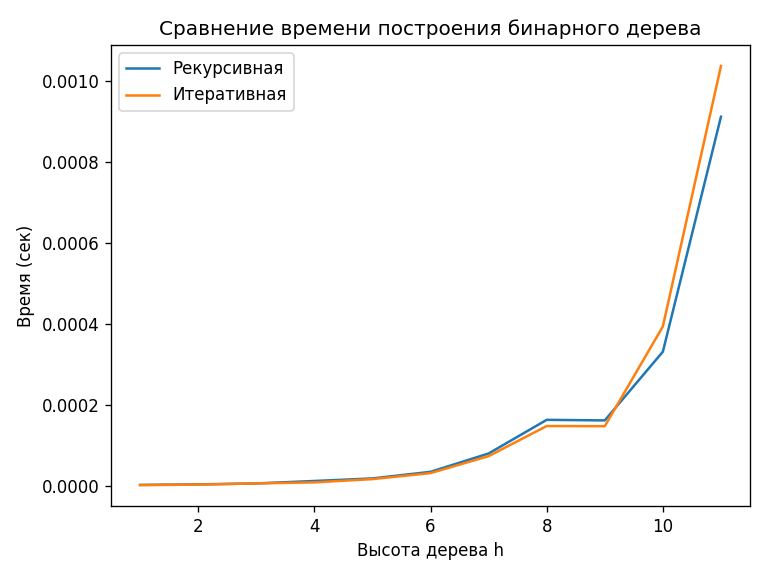
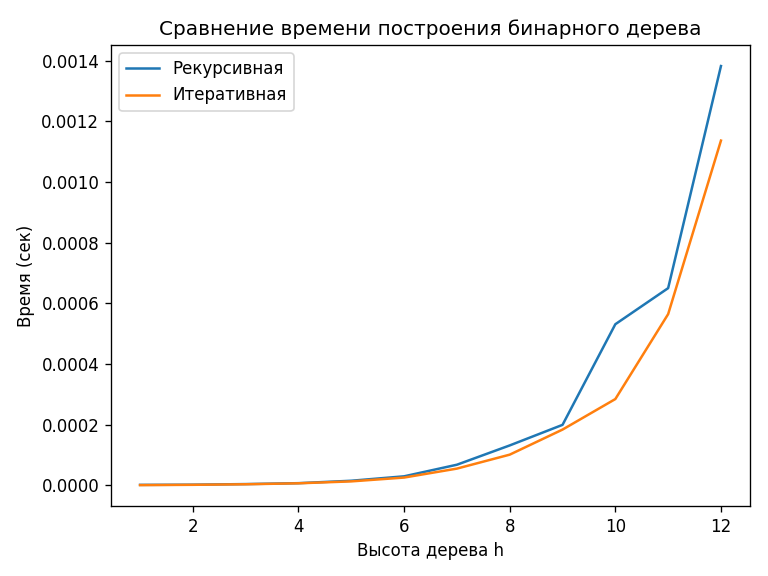
final

diff --git a/LR6/README.md b/LR6/README.md
@@ -5,6 +5,7 @@
 
 ## Навигация
 - Код и бенчмарк: [main.py](./main.py)
+- График: [график.png](./график.png)
 
 ## Постановка задачи
 Сравнить время построения бинарного дерева для двух реализаций:
@@ -21,6 +22,13 @@
 - Фиксированный набор высот `h = 1..11`;
 - «чистый» бенчмарк одного вызова: `timeit.repeat(..., number=1, repeat=5)`, берётся минимум;
 - при запуске скрипта строится график (X — высота, Y — время).
+
+## Результаты (график)
+![Время построения](./график.png)
+
+**Что видно:**
+- Итеративная реализация быстрее рекурсивной на всём диапазоне `h`.
+- Замеры: `timeit`, один вызов (`number=1`), несколько повторов (`repeat=5`), взят минимум.
 
 ## Короткий вывод
 - Итеративная версия обычно быстрее из-за отсутствия накладных расходов вызовов функции.
